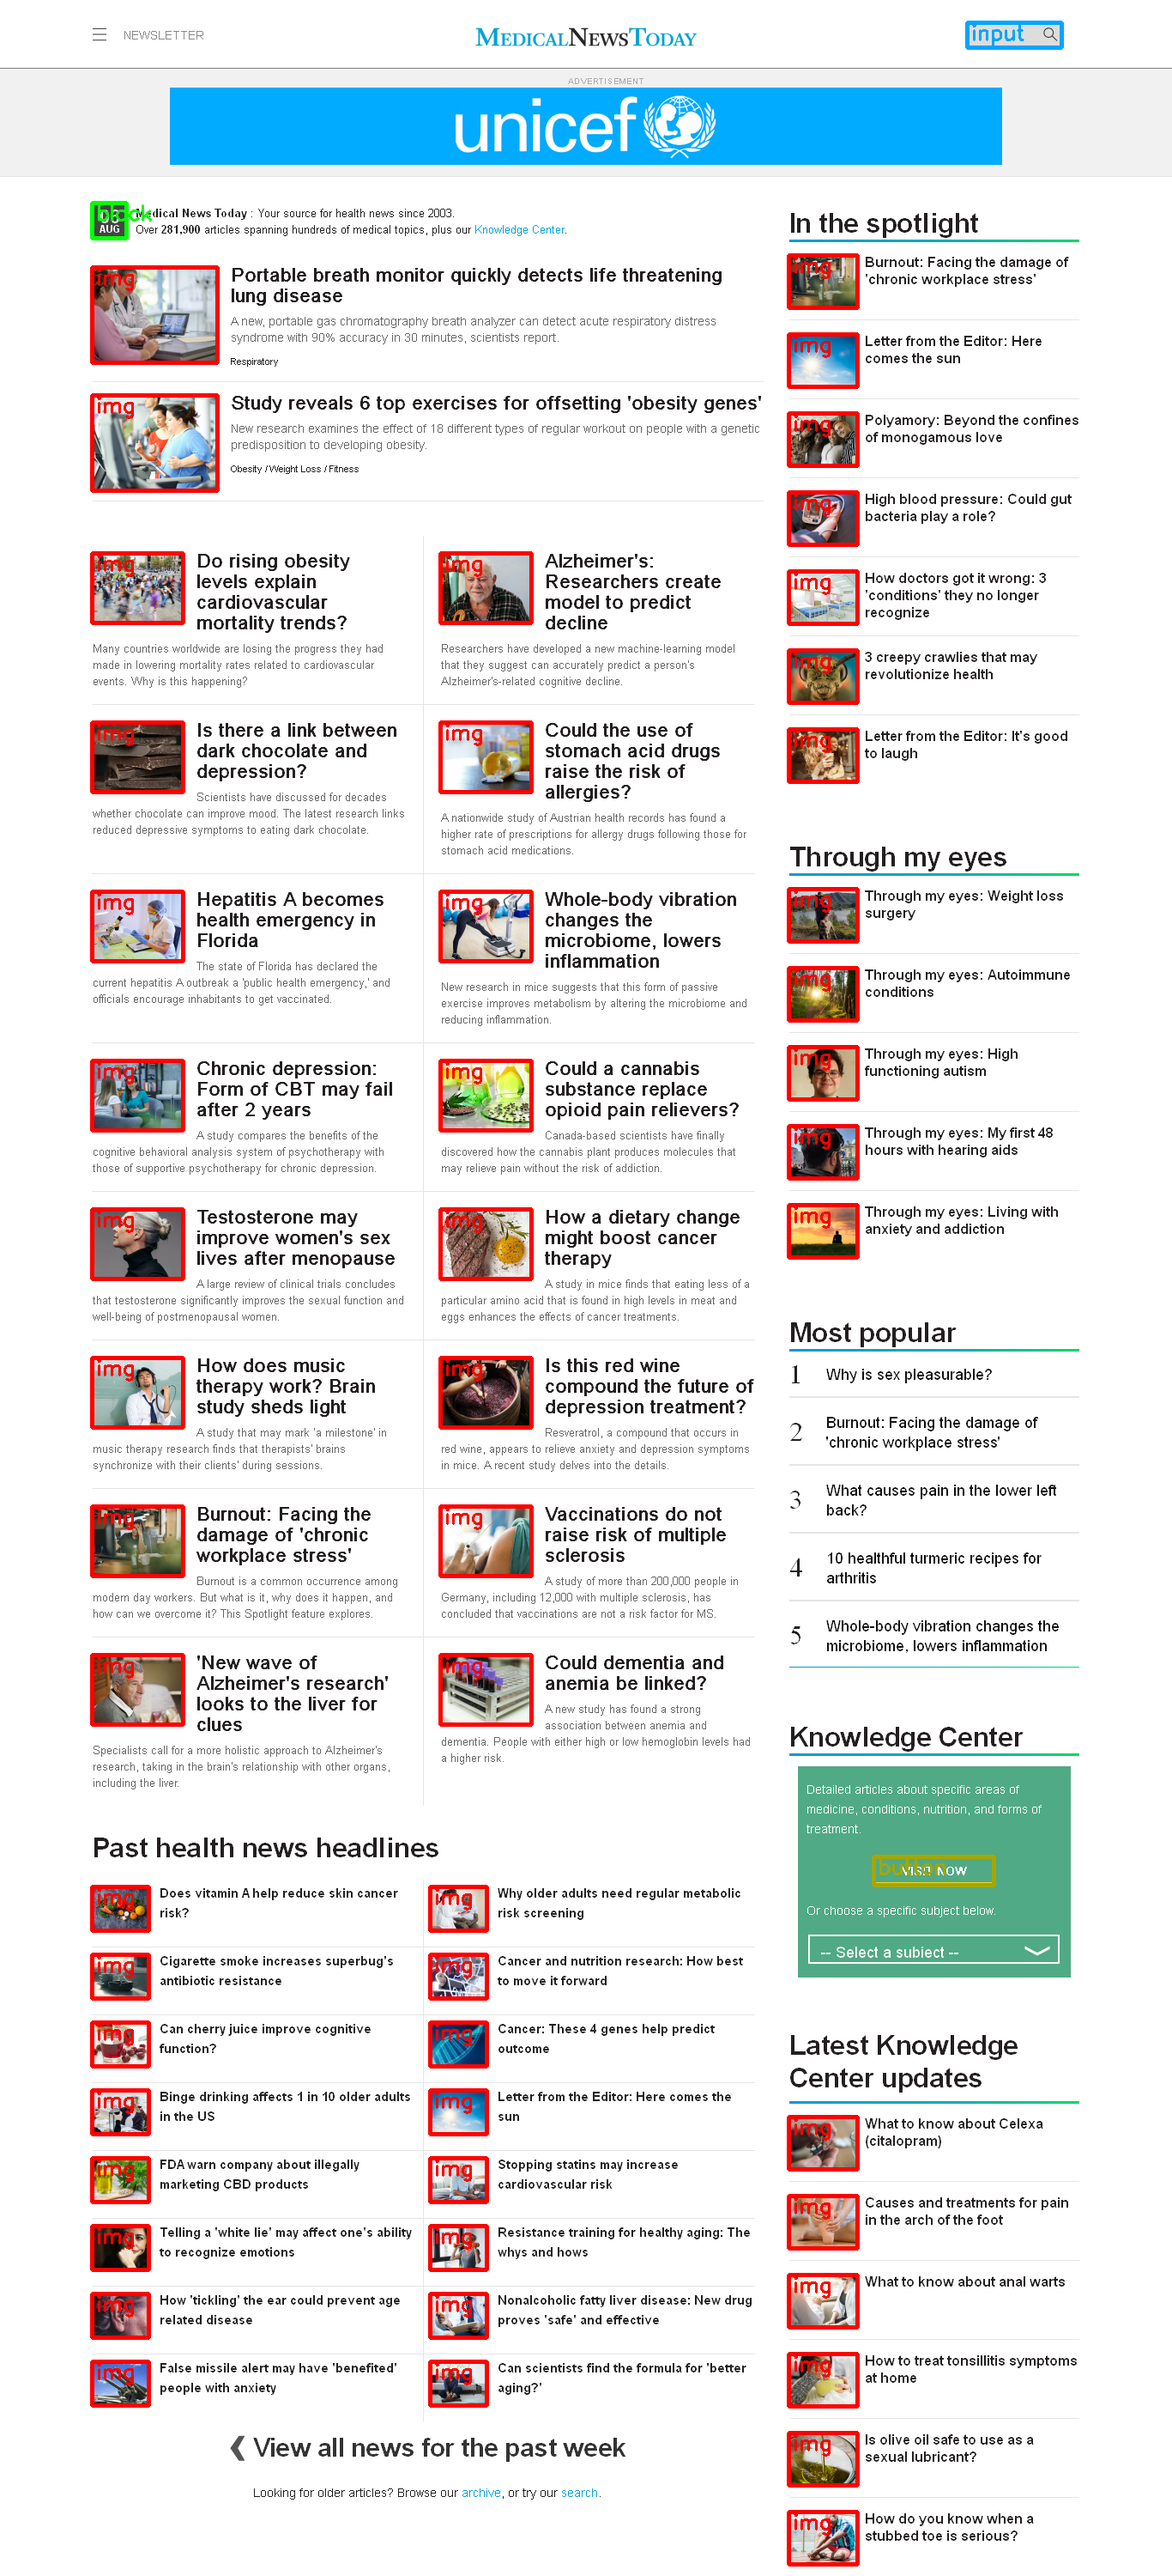
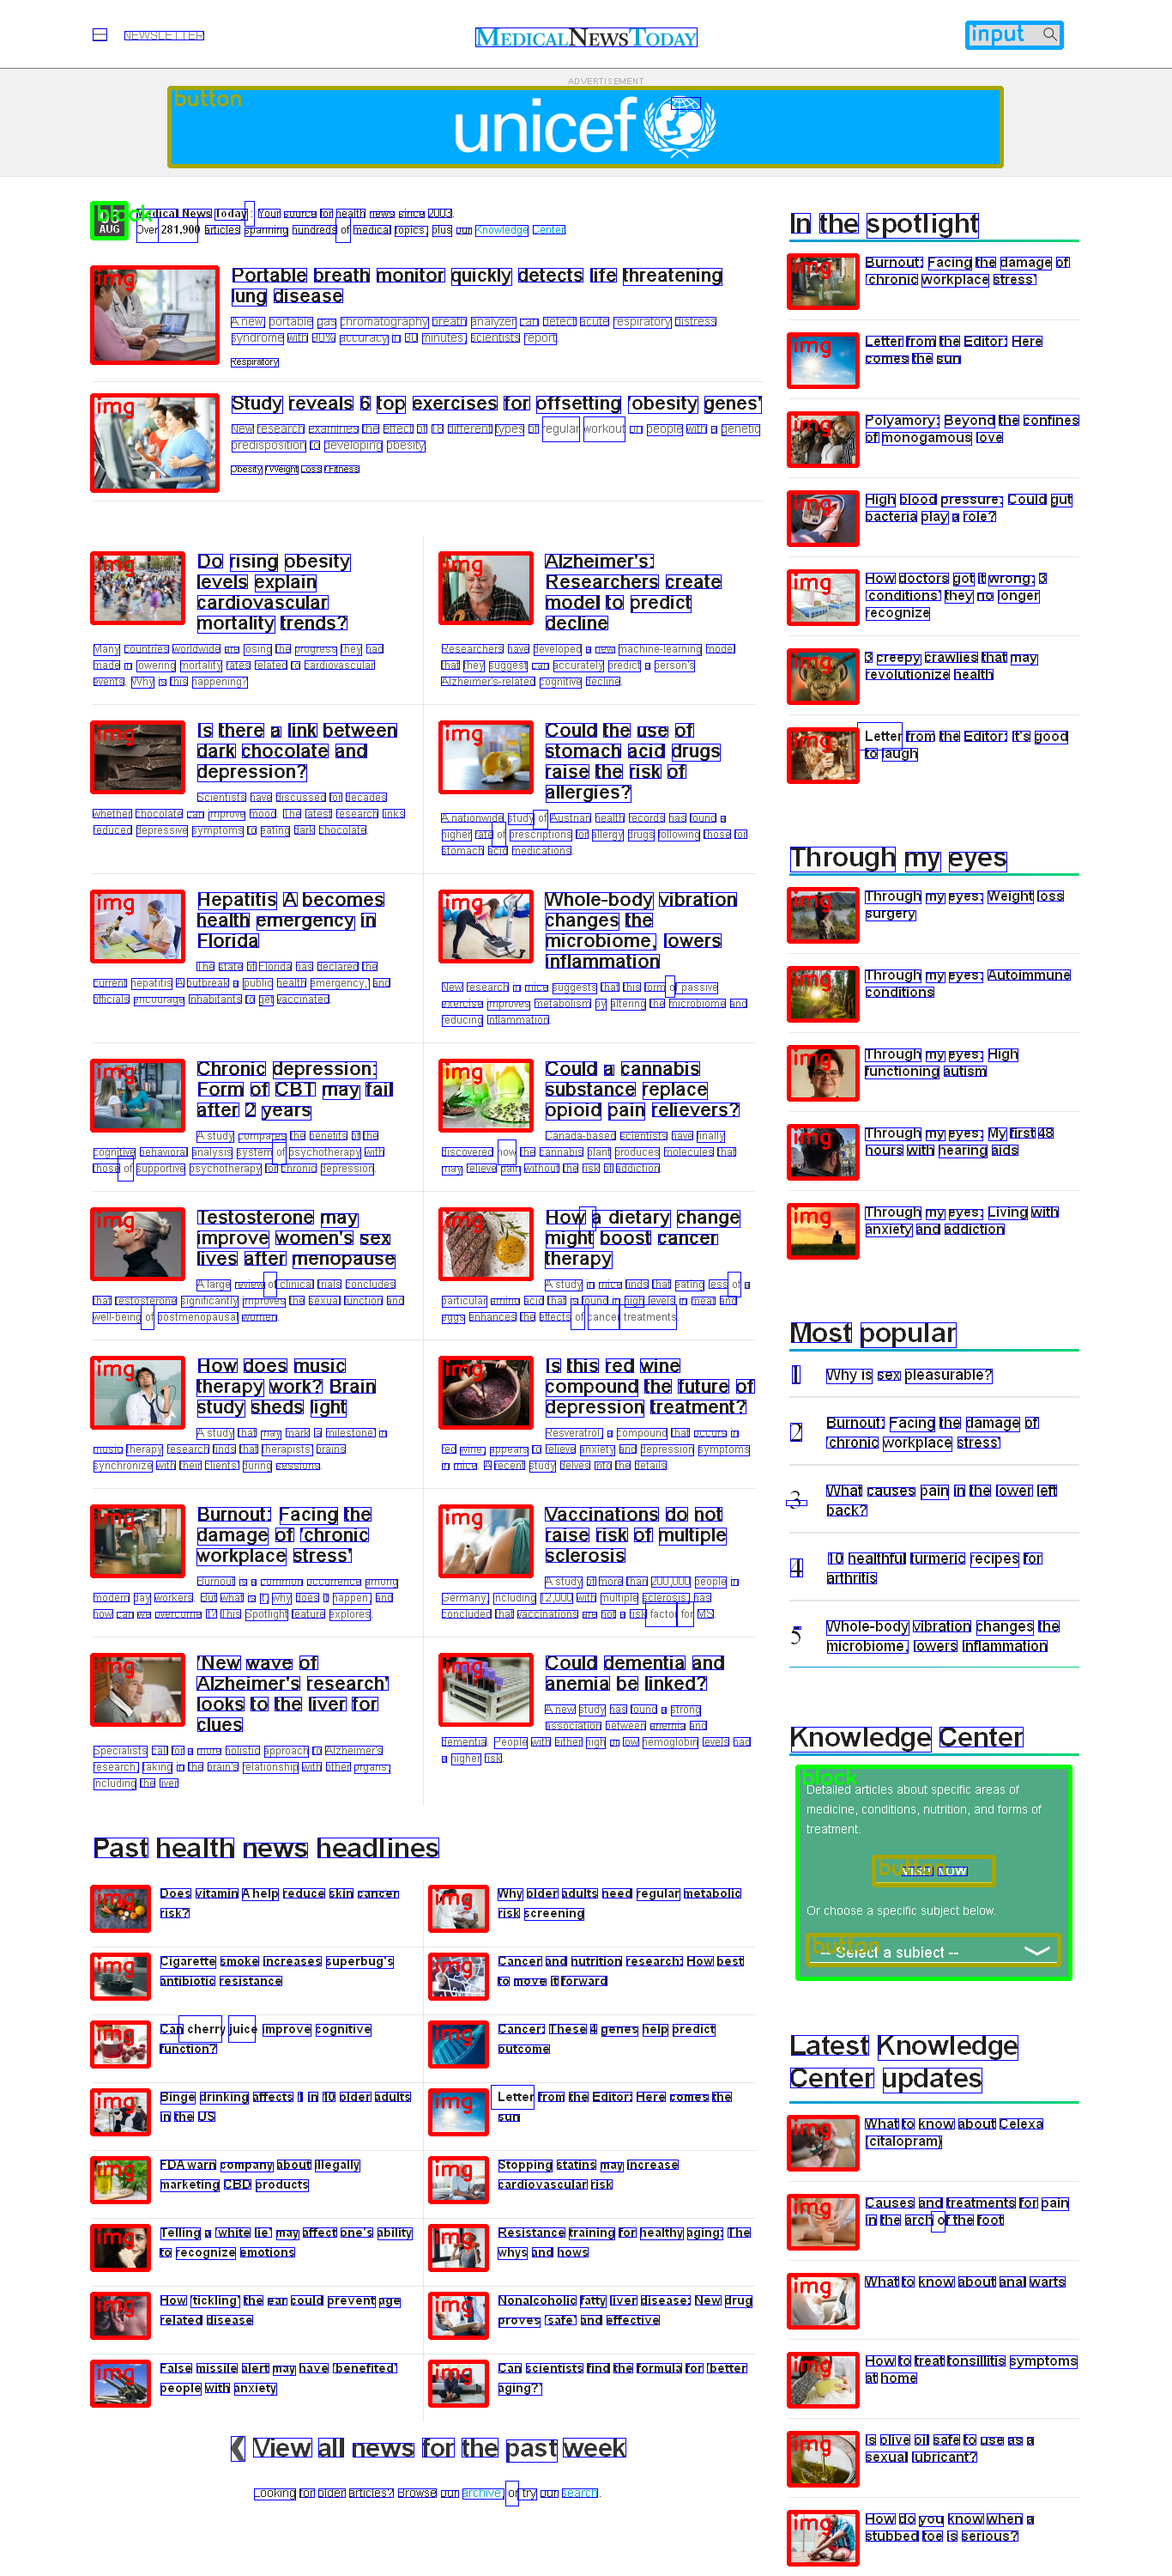
add ocr detection; fix the is line func

diff --git a/code/PROJECT/integration/main.py b/code/PROJECT/integration/main.py
@@ -3,6 +3,7 @@ import ip_preprocessing as pre
 import ip_draw as draw
 import ip_segment as seg
 import file_utils as file
+import ocr_classify_text as ocr
 from CONFIG import Config
 from MODEL import CNN
 
@@ -21,10 +22,12 @@ CNN = CNN()
 CNN.load()
 
 is_classify = True
-is_rm_line = False
+is_detect_line = False
+is_ocr = True
+is_segment = False
 is_save = True
-start_index = 51
-end_index = 55
+start_index = 1
+end_index = 18
 
 for input_path in input_paths:
     index = input_path.split('\\')[-1][:-4]
@@ -50,15 +53,16 @@ for input_path in input_paths:
     org, gray = pre.read_img(input_path, (0, 3000))  # cut out partial img
     if org is None or gray is None: continue
     bin = pre.preprocess(gray, 1)
-    binary = bin
 
     # *** Step 2 *** detect and remove lines: for better boundary detection
-    if is_rm_line:
-        line_h, line_v = det.line_detection(binary,
+    if is_detect_line:
+        line_h, line_v = det.line_detection(bin,
                                             C.THRESHOLD_LINE_MIN_LENGTH_H, C.THRESHOLD_LINE_MIN_LENGTH_V,
                                             C.THRESHOLD_LINE_THICKNESS)
-        bin_no_line = det.rm_line(binary, [line_h, line_v])
+        bin_no_line = det.rm_line(bin, [line_h, line_v])
         binary = bin_no_line
+    else:
+        binary = bin
 
     # *** Step 3 *** get data: get connected areas -> get boundary -> get corners
     boundary_all, boundary_rec, boundary_nonrec = det.boundary_detection(binary,
@@ -83,7 +87,7 @@ for input_path in input_paths:
     # *** Step 5 *** refine results: refine img according to size -> OCR text area filter
     # ignore too large and highly likely text areas
     corners_img = det.img_refine(org, corners_img,
-                                 C.THRESHOLD_IMG_MAX_HEIGHT_RATIO,                      # ignore too large imgs
+                                 C.THRESHOLD_IMG_MAX_HEIGHT_RATIO,  # ignore too large imgs
                                  C.THRESHOLD_TEXT_EDGE_RATIO, C.THRESHOLD_TEXT_HEIGHT)  # ignore text areas
     # merge overlapped corners, and remove nested corners
     # corners_img = det.merge_corners(corners_img)
@@ -105,11 +109,18 @@ for input_path in input_paths:
     else:
         compos_classes = None
 
-    # *** Step 7 *** post-processing: remove img elements from original image and segment into smaller size
+    # *** Step 7 *** text detection from cleaned image
     img_clean = draw.draw_bounding_box(org, corners_img, color=(255, 255, 255), line=-1)
-    seg.segment_img(img_clean, 600, 'output/segment')
+    if is_ocr:
+        draw_bounding, word = ocr.text_detection(org, img_clean)
+    else:
+        draw_bounding = org
+
+    # *** Step 8 *** post-processing: remove img elements from original image and segment into smaller size
+    if is_segment:
+        seg.segment_img(img_clean, 600, 'output/segment')
     # draw results
-    draw_bounding = draw.draw_bounding_box_class(org, corners_block, ['block' for i in range(len(corners_block))], C.COLOR)
+    draw_bounding = draw.draw_bounding_box_class(draw_bounding, corners_block, ['block' for i in range(len(corners_block))], C.COLOR)
     draw_bounding = draw.draw_bounding_box_class(draw_bounding, corners_img, ['img' for j in range(len(corners_img))], C.COLOR)
     draw_bounding = draw.draw_bounding_box_class(draw_bounding, corners_compo, compos_classes, C.COLOR)
     draw_boundary = draw.draw_boundary(boundary_rec, org.shape)

diff --git a/code/PROJECT/integration/main_single.py b/code/PROJECT/integration/main_single.py
@@ -3,6 +3,7 @@ import ip_preprocessing as pre
 import ip_draw as draw
 import ip_segment as seg
 import file_utils as file
+import ocr_classify_text as ocr
 from CONFIG import Config
 from MODEL import CNN
 
@@ -14,22 +15,25 @@ C = Config()
 CNN = CNN()
 start = time.clock()
 is_classify = True
-is_rm_line = False
+is_detect_line = False
+is_ocr = True
+is_segment = False
 is_save = True
 
 # *** Step 1 *** pre-processing: gray, gradient, binary
 org, gray = pre.read_img('input/18.png', (0, 3000))  # cut out partial img
 bin = pre.preprocess(gray, 1)
-binary = bin
 
 
 # *** Step 2 *** detect and remove lines: for better boundary detection
-if is_rm_line:
-    line_h, line_v = det.line_detection(binary,
+if is_detect_line:
+    line_h, line_v = det.line_detection(bin,
                                         C.THRESHOLD_LINE_MIN_LENGTH_H, C.THRESHOLD_LINE_MIN_LENGTH_V,
                                         C.THRESHOLD_LINE_THICKNESS)
-    bin_no_line = det.rm_line(binary, [line_h, line_v])
+    bin_no_line = det.rm_line(bin, [line_h, line_v])
     binary = bin_no_line
+else:
+    binary = bin
 
 # *** Step 3 *** get data: get connected areas -> get boundary -> get corners
 boundary_all, boundary_rec, boundary_nonrec = det.boundary_detection(binary,
@@ -80,11 +84,20 @@ if is_classify:
 else:
     compos_classes = None
 
-# *** Step 7 *** post-processing: remove img elements from original image and segment into smaller size
+
+# *** Step 7 *** text detection from cleaned image
 img_clean = draw.draw_bounding_box(org, corners_img, color=(255, 255, 255), line=-1)
-seg.segment_img(img_clean, 600, 'output/segment')
+if is_ocr:
+    draw_bounding, word = ocr.text_detection(org, img_clean)
+else:
+    draw_bounding = org
+
+
+# *** Step 8 *** post-processing: remove img elements from original image and segment into smaller size
+if is_segment:
+    seg.segment_img(img_clean, 600, 'output/segment')
 # draw results
-draw_bounding = draw.draw_bounding_box_class(org, corners_block, ['block' for i in range(len(corners_block))], C.COLOR)
+draw_bounding = draw.draw_bounding_box_class(draw_bounding, corners_block, ['block' for i in range(len(corners_block))], C.COLOR)
 draw_bounding = draw.draw_bounding_box_class(draw_bounding, corners_img, ['img' for j in range(len(corners_img))], C.COLOR)
 draw_bounding = draw.draw_bounding_box_class(draw_bounding, corners_compo, compos_classes, C.COLOR)
 draw_boundary = draw.draw_boundary(boundary_rec, org.shape)

diff --git a/code/PROJECT/integration/lib/ip_detection_utils.py b/code/PROJECT/integration/lib/ip_detection_utils.py
@@ -93,9 +93,29 @@ def clipping_by_line(boundary, boundary_rec, lines):
 
 
 def is_line(boundary, min_line_thickness):
-    # check if it is line by checking the length of edges
-    if True in [len(boundary[i]) < min_line_thickness for i in range(len(boundary))]:
+    """
+    If this object is line by checking its boundary
+    :param boundary: boundary: [border_top, border_bottom, border_left, border_right]
+                                -> top, bottom: list of (column_index, min/max row border)
+                                -> left, right: list of (row_index, min/max column border) detect range of each row
+    :param min_line_thickness:
+    :return: Boolean
+    """
+    # horizontally
+    slim = 0
+    for i in range(len(boundary[0])):
+        if abs(boundary[1][i][1] - boundary[0][i][1]) <= min_line_thickness:
+            slim += 1
+    if slim / len(boundary[0]) > 0.8:
         return True
+    # vertically
+    slim = 0
+    for i in range(len(boundary[2])):
+        if abs(boundary[2][i][1] - boundary[3][i][1]) <= min_line_thickness:
+            slim += 1
+    if slim / len(boundary[2]) > 0.8:
+        return True
+
     return False
 
 

diff --git a/code/PROJECT/integration/lib/ocr_classify_text.py b/code/PROJECT/integration/lib/ocr_classify_text.py
@@ -21,7 +21,6 @@ def is_text(img, min_word_area, show=False):
                 word.append(d)
                 t_l = (int(d[-6]), int(d[-5]))
                 b_r = (int(d[-6]) + int(d[-4]), int(d[-5]) + int(d[-3]))
-
                 area_word += int(d[-4]) * int(d[-3])
                 cv2.rectangle(broad, t_l, b_r, (0,0,255), 1)
 
@@ -35,3 +34,18 @@ def is_text(img, min_word_area, show=False):
     if len(word) == 0 or area_word/area_total < min_word_area:
         return False
     return True
+
+
+def text_detection(org, img_clean, color=(255, 0, 0)):
+    board = org.copy()
+    data = pyt.image_to_data(img_clean).split('\n')
+    word = []
+    for d in data[1:]:
+        d = d.split()
+        if d[-1] != '-1':
+            if d[-1] != '-' and d[-1] != '—' and int(d[-3]) < 40:
+                word.append(d)
+                t_l = (int(d[-6]), int(d[-5]))
+                b_r = (int(d[-6]) + int(d[-4]), int(d[-5]) + int(d[-3]))
+                cv2.rectangle(board, t_l, b_r, color, 1)
+    return board, word

diff --git a/code/PROJECT/integration/lib/CONFIG.py b/code/PROJECT/integration/lib/CONFIG.py
@@ -5,7 +5,7 @@ class Config:
 
     def __init__(self):
         self.ROOT_INPUT = "E:\Mulong\Datasets\dataset_webpage\page10000"
-        self.ROOT_OUTPUT = "E:\Mulong\Datasets\dataset_webpage\ip\ip_v4_classification_noline"
+        self.ROOT_OUTPUT = "E:\Mulong\Datasets\dataset_webpage\ip\ip_v4_ocrclassification"
         self.ROOT_IMG_ORG = pjoin(self.ROOT_INPUT, "org")
         self.ROOT_LABEL = pjoin(self.ROOT_OUTPUT, "ip_label")
         self.ROOT_IMG_DRAWN = pjoin(self.ROOT_OUTPUT, "ip_img_drawn")
